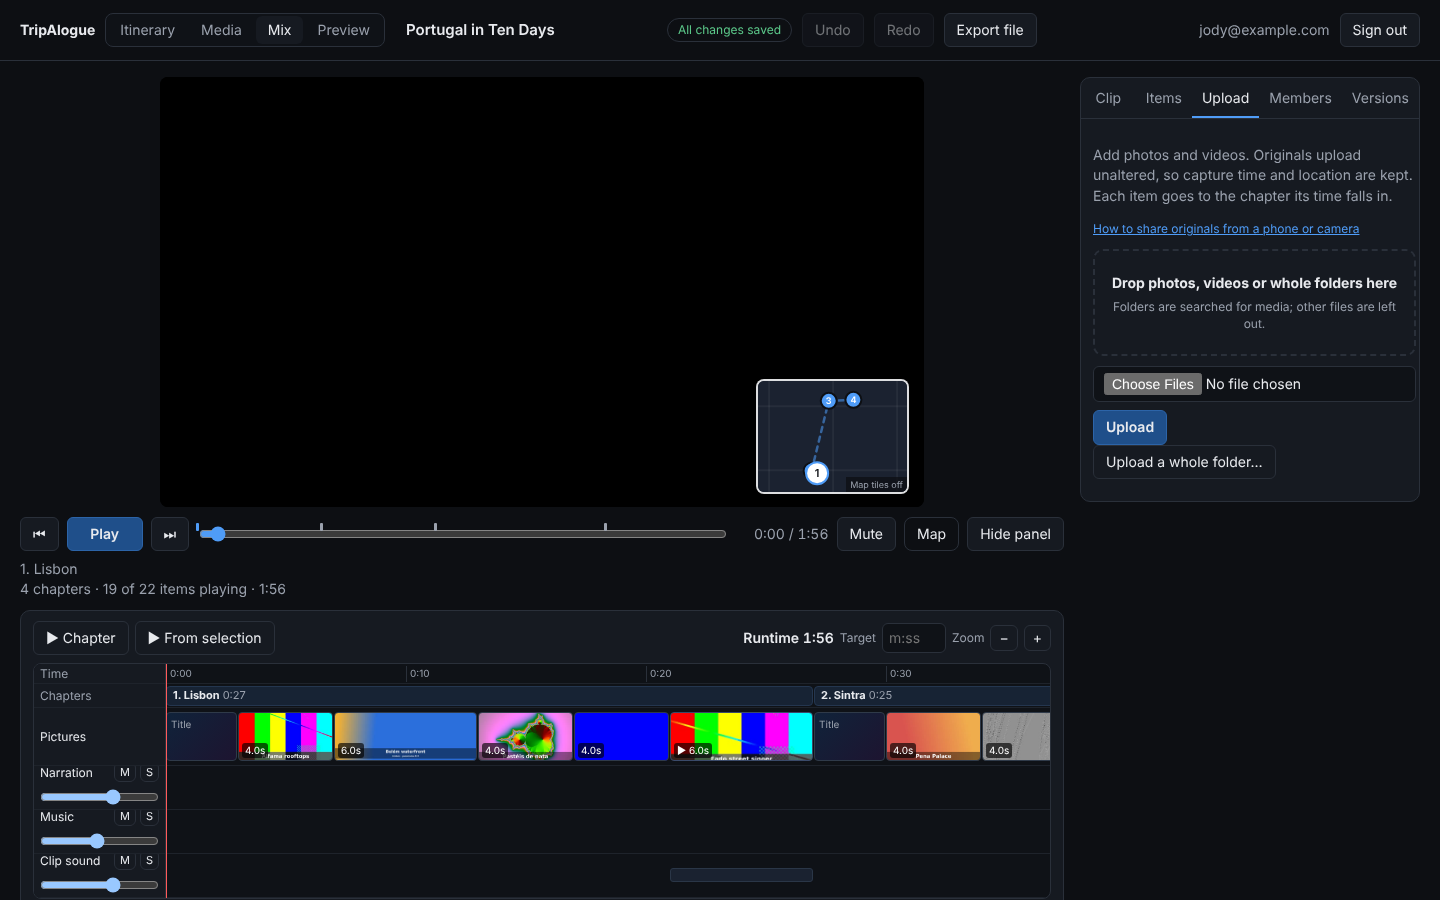
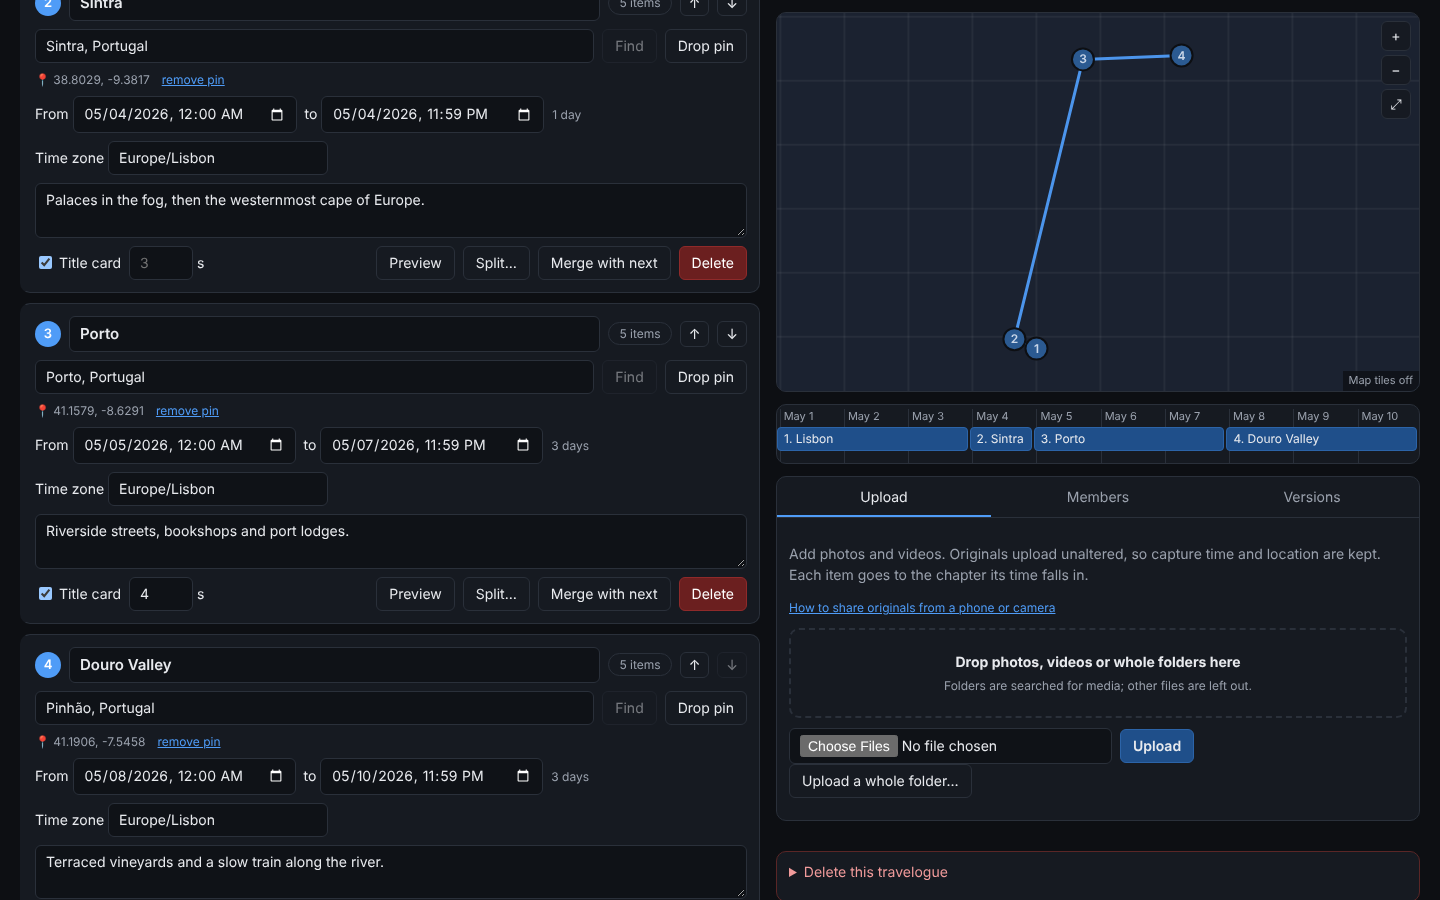
Move Upload, Members and Versions to a panel in the Itinerary view
The travelogue panel sits in the Itinerary view's lower right, under the map
and chapter timeline (Delete this travelogue below it). Mix keeps Clip and
Items. The timeline drops focus from inspector fields on click, so Delete
works after typing a duration. The itinerary's play button reads Preview.
Two test races fixed (phase 1 date fix, phase 3 move dialog).

Claude-Session: https://claude.ai/code/session_01AduyArpdAmAEsk6yH1Lq9i

diff --git a/src/web/main.ts b/src/web/main.ts
@@ -231,9 +231,16 @@ async function renderProject(id: string, initialView?: View) {
   const redoBtn = h('button', { id: 'redo', onclick: () => s.redo() }, 'Redo');
   const meta = h('div', { id: 'meta', class: 'muted' });
   const side = h('div', { class: 'side-body' });
-  const tabs = ['Clip', 'Items', 'Upload', 'Members', 'Versions'] as const;
-  let tab: (typeof tabs)[number] = 'Items';
+  // Mix's side panel: the selected clip and the item list.
+  const tabs = ['Clip', 'Items'] as const;
+  let tab: (typeof tabs)[number] = 'Clip';
   const tabBar = h('div', { class: 'tabs', role: 'tablist' }, ...tabs.map((t) => h('button', { role: 'tab', 'data-tab': t, onclick: () => { tab = t; renderSide(); } }, t)));
+  // The travelogue panel, in the Itinerary view's lower right: uploads, who is on the trip, saved versions.
+  const ptabs = ['Upload', 'Members', 'Versions'] as const;
+  let ptab: (typeof ptabs)[number] = 'Upload';
+  const projBody = h('div', { class: 'side-body project-panel-body' });
+  const ptabBar = h('div', { class: 'tabs', role: 'tablist' }, ...ptabs.map((t) => h('button', { role: 'tab', 'data-tab': t, onclick: () => { ptab = t; renderProjectPanel(); } }, t)));
+  const projectPanel = h('section', { class: 'project-panel card', id: 'project-panel', 'aria-label': 'Uploads, members and versions' }, ptabBar, projBody);
 
   titleInput.addEventListener('input', () => s.edit('Rename travelogue', (p) => setTitle(p, titleInput.value), { coalesceKey: 'title' }));
   const exportLink = h('a', { class: 'button', href: `/api/projects/${encodeURIComponent(id)}/export`, download: '' }, 'Export file');
@@ -258,6 +265,7 @@ async function renderProject(id: string, initialView?: View) {
       alert((e as ApiError).message);
     }
     renderSide();
+    renderProjectPanel();
   };
   const itinerary = mountItinerary(s, {
     map: cfg.map,
@@ -268,6 +276,7 @@ async function renderProject(id: string, initialView?: View) {
       player.play();
     },
   });
+  itinerary.el.querySelector('.itinerary-side')?.append(projectPanel);
   if (s.role === 'owner') itinerary.el.querySelector('.itinerary-side')?.append(deleteProjectBox());
   const inset = mountInset(s, stageWrap, cfg.map);
   const media = mountMedia(s, {
@@ -294,7 +303,7 @@ async function renderProject(id: string, initialView?: View) {
         chapterLabel, meta, editorHost),
       h('aside', { class: 'side card', id: 'side-panel' }, tabBar, side));
 
-  // The side panel (Items, Upload, Members, Versions) folds away so playback can use the whole width.
+  // Mix's side panel (Clip, Items) folds away so the player and timeline can use the whole width.
   // Remembered per browser; storage can be unavailable, so it is best effort.
   const PANEL_KEY = 'tripalogue.panelCollapsed';
   const panelBtn = h('button', { id: 'toggle-panel', 'aria-controls': 'side-panel', title: 'Show or hide the side panel (P)' });
@@ -324,9 +333,7 @@ async function renderProject(id: string, initialView?: View) {
     playMain.classList.toggle('editing', editing);
     playMain.classList.toggle('previewing', v === 'preview');
     editor.el.hidden = !editing;
-    tabBar.querySelector<HTMLElement>('[data-tab="Clip"]')!.hidden = !editing;
     if (editing && was !== 'mix') tab = 'Clip';
-    else if (!editing && tab === 'Clip') tab = 'Items';
     stageWrap.style.maxWidth = `calc((100vh - ${editing ? 470 : 190}px) * ${s.state.output.width / s.state.output.height})`;
     editor.setActive(editing);
     stage.setActive(editing);
@@ -458,7 +465,8 @@ async function renderProject(id: string, initialView?: View) {
     meta.dataset.ready = String(ready);
     meta.dataset.total = String(p.media.length);
     renderMarks();
-    if (tab === 'Items' || tab === 'Upload') renderSide();
+    if (tab === 'Items') renderSide();
+    if (ptab === 'Upload') renderProjectPanel();
     itinerary.update();
     if (view === 'media') media.update();
     if (view === 'mix') editor.update();
@@ -494,9 +502,13 @@ async function renderProject(id: string, initialView?: View) {
   function renderSide() {
     tabBar.querySelectorAll<HTMLElement>('[role=tab]').forEach((b) => b.setAttribute('aria-selected', String(b.dataset.tab === tab)));
     if (tab === 'Clip') return void side.replaceChildren(editor.inspector);
-    if (tab === 'Items') return renderItems();
-    if (tab === 'Upload') return renderUpload();
-    if (tab === 'Members') return void renderMembers();
+    return renderItems();
+  }
+
+  function renderProjectPanel() {
+    ptabBar.querySelectorAll<HTMLElement>('[role=tab]').forEach((b) => b.setAttribute('aria-selected', String(b.dataset.tab === ptab)));
+    if (ptab === 'Upload') return renderUpload();
+    if (ptab === 'Members') return void renderMembers();
     return void renderVersions();
   }
 
@@ -562,7 +574,7 @@ async function renderProject(id: string, initialView?: View) {
       ? h('div', { class: 'banner error', id: 'media-problems', role: 'alert' },
         h('strong', {}, 'Media processing is not working on this server.'),
         h('ul', {}, ...mediaTools.problems.map((t) => h('li', {}, t))),
-        h('button', { id: 'media-recheck', onclick: async () => { mediaTools = await Api.mediaTools(true).catch(() => mediaTools); renderSide(); } }, 'Check again'))
+        h('button', { id: 'media-recheck', onclick: async () => { mediaTools = await Api.mediaTools(true).catch(() => mediaTools); renderProjectPanel(); } }, 'Check again'))
       : null;
     const failedBlock = failedProcessing.length
       ? h('div', { class: 'failed-processing' },
@@ -573,7 +585,7 @@ async function renderProject(id: string, initialView?: View) {
     const input = uploadInput;
     const folder = uploadFolder;
     const start = startUpload;
-    side.replaceChildren(
+    projBody.replaceChildren(
       mayUpload
         ? h('div', {},
           h('p', { class: 'muted' }, pending.length
@@ -586,18 +598,18 @@ async function renderProject(id: string, initialView?: View) {
           uploadProgress,
           pending.length ? h('ul', { class: 'pending' }, ...pending.slice(0, 50).map((m) => h('li', { class: 'muted' }, `${m.uri.split('/').pop()} · ${m.status}${m.error ? ` · ${m.error}` : ''}`))) : null)
         : h('p', { class: 'muted' }, 'Viewers cannot upload media.'));
-    if (failedBlock) side.append(failedBlock);
-    if (toolsBanner) side.prepend(toolsBanner);
+    if (failedBlock) projBody.append(failedBlock);
+    if (toolsBanner) projBody.prepend(toolsBanner);
   }
 
   async function renderMembers() {
     const { members } = await Api.members(id).catch(() => ({ members: [] as { userId: string; name: string; email: string; role: Role; joinedAt: number }[] }));
-    if (tab !== 'Members') return;
+    if (ptab !== 'Members') return;
     const owner = s.role === 'owner';
     const email = h('input', { type: 'email', placeholder: 'friend@example.com', 'aria-label': 'Email to invite', required: true });
     const role = h('select', { 'aria-label': 'Role' }, ...(['editor', 'contributor', 'viewer'] as const).map((r) => h('option', { value: r }, r)));
     const msg = h('div', { class: 'form-msg', role: 'status' });
-    side.replaceChildren(
+    projBody.replaceChildren(
       h('ul', { class: 'members' }, ...members.map((m) => h('li', {},
         h('span', {}, `${m.name} `, h('span', { class: 'muted' }, m.email)),
         owner && m.role !== 'owner'
@@ -655,10 +667,10 @@ async function renderProject(id: string, initialView?: View) {
 
   async function renderVersions() {
     const { versions } = await Api.versions(id).catch(() => ({ versions: [] as { id: string; rev: number; author: string; at: number; label: string; auto: boolean }[] }));
-    if (tab !== 'Versions') return;
+    if (ptab !== 'Versions') return;
     const label = h('input', { placeholder: 'e.g. Before trimming Porto', 'aria-label': 'Version name', required: true });
     const msg = h('div', { class: 'form-msg', role: 'status' });
-    side.replaceChildren(
+    projBody.replaceChildren(
       s.mayEdit ? h('form', { class: 'row', onsubmit: async (e: Event) => { e.preventDefault(); await s.flush().catch(() => {}); await Api.saveVersion(id, label.value); void renderVersions(); } },
         label, h('button', { type: 'submit' }, 'Save version')) : '',
       h('ul', { class: 'versions' }, ...versions.map((v) => h('li', {},
@@ -678,6 +690,7 @@ async function renderProject(id: string, initialView?: View) {
   }
 
   renderSide();
+  renderProjectPanel();
   update();
   setView(view);
   window.tripalogue = { telemetry, player, session: s, itinerary, media, editor, inset, state: () => player.state };

diff --git a/scripts/exit-test.ts b/scripts/exit-test.ts
@@ -48,6 +48,16 @@ const dataDir = mkdtempSync(path.join(os.tmpdir(), 'tripalogue-exit-'));
 const app = await startApp({ dataDir, port: 0, log: () => {}, geo: geoConfigFromEnv(dataDir, { tileUrl: '', geocoderUrl: '' }) });
 const browser = await chromium.launch({ args: ['--autoplay-policy=no-user-gesture-required'] });
 const page = await browser.newPage({ viewport: { width: 1440, height: 900 } });
+/** Upload, Members and Versions live in the Itinerary view's travelogue panel (lower right). */
+const panelTab = async (t: 'Upload' | 'Members' | 'Versions') => {
+  await page.click('#view-itinerary');
+  await page.click(`#project-panel button[data-tab="${t}"]`);
+};
+/** The item list is a tab of the Mix view's side panel. */
+const itemsTab = async () => {
+  await page.click('#view-mix');
+  await page.click('#side-panel button[data-tab="Items"]');
+};
 const consoleErrors: string[] = [];
 page.on('console', (m) => { if (m.type() === 'error') consoleErrors.push(m.text()); });
 page.on('pageerror', (e) => consoleErrors.push(e.message));
@@ -170,12 +180,12 @@ try {
   const previewWidth = await page.evaluate(() => document.getElementById('stage-wrap')!.getBoundingClientRect().width);
   const previewSide = await page.evaluate(() => !!document.getElementById('side-panel')!.getClientRects().length);
   await page.click('#view-mix');
-  await page.click('.tabs button[data-tab="Items"]');
+  await itemsTab();
   await page.uncheck('li[data-item="m02"] input[type=checkbox]');
   await page.waitForFunction(() => window.tripalogue!.session!.unsaved === 0 && window.tripalogue!.session!.status === 'saved', null, { timeout: 10_000 });
   const savedOnServer = app.projects.load(pid).doc.cues.find((c) => c.itemId === 'm02')!.included === false;
   await page.reload();
-  await page.click('.tabs button[data-tab="Items"]');
+  await itemsTab();
   await page.waitForSelector('li[data-item="m02"]');
   const afterReload = await page.isChecked('li[data-item="m02"] input[type=checkbox]');
   check('an edit autosaves and survives a reload', savedOnServer && !afterReload);
@@ -225,11 +235,11 @@ try {
   // 7. A phone's HEIC photo uploads, gets a full-size JPG, and shows upright.
   const heic = path.join(dataDir, 'IMG_0420.HEIC');
   await writeHeic(heic, { width: 320, height: 240, tile: 128, rotateCcw: 90, capturedAt: '2026:05:03 14:22:10', exifOrientation: 6 });
-  await page.click('.tabs button[data-tab="Upload"]');
+  await panelTab('Upload');
   await page.setInputFiles('#upload-input', heic);
   await page.click('#upload-start');
   await page.waitForFunction(() => window.tripalogue!.session!.state.media.some((m) => m.uri.endsWith('IMG_0420.HEIC') && m.status === 'ready'), null, { timeout: 60_000 });
-  await page.click('.tabs button[data-tab="Items"]');
+  await itemsTab();
   const row = page.locator('li[data-item]', { hasText: 'IMG_0420.HEIC' });
   await row.locator('img').waitFor();
   await page.waitForFunction(() => [...document.querySelectorAll<HTMLImageElement>('li[data-item] img')].some((i) => i.closest('li')!.textContent!.includes('IMG_0420') && i.naturalWidth > 0));
@@ -249,20 +259,20 @@ try {
   // A new photo (a copy of a sample photo would now be recognised as already uploaded and skipped).
   await new Promise<void>((resolve, reject) => import('node:child_process').then(({ execFile }) =>
     execFile('ffmpeg', ['-v', 'error', '-y', '-f', 'lavfi', '-i', 'color=c=olive:s=640x480', '-frames:v', '1', broken], (e) => (e ? reject(e) : resolve()))));
-  await page.click('.tabs button[data-tab="Upload"]');
+  await panelTab('Upload');
   await page.setInputFiles('#upload-input', broken);
   await page.click('#upload-start');
   await page.waitForFunction(() => window.tripalogue!.session!.state.media.some((m) => m.uri.endsWith('IMG_0500.jpg') && m.status === 'failed'), null, { timeout: 60_000 });
-  await page.click('.tabs button[data-tab="Items"]');
+  await itemsTab();
   const retryBtn = page.locator('button.retry[aria-label="Retry processing IMG_0500.jpg"]');
   await retryBtn.waitFor();
-  await page.click('.tabs button[data-tab="Upload"]');
+  await panelTab('Upload');
   await page.waitForSelector('#retry-failed');
   // The banner shows once the page knows about the problem (the page loaded before ffprobe broke): ask again.
   const recheck = await page.evaluate(async () => (await fetch('/api/media-tools?recheck=1')).json());
   await page.reload();
   await page.waitForFunction(() => !!window.tripalogue?.session);
-  await page.click('.tabs button[data-tab="Upload"]');
+  await panelTab('Upload');
   const banner = await page.locator('#media-problems').textContent({ timeout: 10_000 }).catch(() => '');
   await page.screenshot({ path: path.join(outDir, '12-media-problems.png') });
   app.cfg.ffprobe = goodProbe; // "install" ffprobe

diff --git a/scripts/phase2-test.ts b/scripts/phase2-test.ts
@@ -114,6 +114,11 @@ class Traveler {
 const app = await startApp({ dataDir, port: 0, log: () => {}, geo: geoConfigFromEnv(dataDir, { tileUrl: '', geocoderUrl: '' }) });
 const browser = await chromium.launch();
 const page = await browser.newPage({ viewport: { width: 1440, height: 1000 } });
+/** Upload, Members and Versions live in the Itinerary view's travelogue panel (lower right). */
+const panelTab = async (t: 'Upload' | 'Members' | 'Versions') => {
+  await page.click('#view-itinerary');
+  await page.click(`#project-panel button[data-tab="${t}"]`);
+};
 const consoleErrors: string[] = [];
 page.on('console', (m) => { if (m.type() === 'error') consoleErrors.push(m.text()); });
 page.on('pageerror', (e) => consoleErrors.push(e.stack ?? e.message));
@@ -142,7 +147,7 @@ try {
 
   // The traveler's phone: upload the extra files from the Upload tab (in the Mix view's side panel).
   await page.click('#view-mix');
-  await page.click('.tabs button[data-tab="Upload"]');
+  await panelTab('Upload');
   await page.setInputFiles('#upload-input', [afterTrip, screenshot, dupe, ...slow, phone]);
   await page.click('#upload-start');
   await page.waitForFunction(() => /1 already uploaded, skipped/.test(document.getElementById('upload-summary')?.textContent ?? '') && window.tripalogue!.session!.state.media.length === 26
@@ -165,7 +170,7 @@ try {
     await t.signInFromLink(invite);
     for (const f of list) await t.upload(pid, f);
   }
-  await page.click('.tabs button[data-tab="Upload"]');
+  await panelTab('Upload');
   await page.setInputFiles('#upload-input', [memo]);
   await page.click('#upload-start');
   await app.jobs.idle();
@@ -319,11 +324,12 @@ try {
   await fs.writeFile(path.join(folder, 'notes.txt'), 'packing list');
   const before = await page.evaluate(() => window.tripalogue!.session!.state.media.length);
   await page.click('#view-mix');
-  await page.click('.tabs button[data-tab="Upload"]');
+  await panelTab('Upload');
   await page.locator('#drop-zone').screenshot({ path: path.join(outDir, '05-drop-zone.png') });
+  await page.screenshot({ path: path.join(outDir, '09-itinerary-travelogue-panel.png') });
   // The file picker keeps its selection when the panel redraws (it used to take two tries on first use).
   await page.setInputFiles('#upload-input', [path.join(folder, 'IMG_9001.jpg')]);
-  await page.click('.tabs button[data-tab="Upload"]');
+  await panelTab('Upload');
   await page.evaluate(() => window.tripalogue!.session!.poll());
   await settle();
   const stillChosen = await page.evaluate(() => (document.getElementById('upload-input') as HTMLInputElement).files?.length ?? 0);
@@ -432,7 +438,7 @@ try {
   check('Delete for good erases the original once nothing refers to it', !blobLeft && !binLeft, `${shotKey}: file ${blobLeft ? 'still there' : 'erased'}, bin ${binLeft ? 'still shown' : 'gone'}`);
 
   await page.click('#view-mix');
-  await page.click('.tabs button[data-tab="Members"]');
+  await panelTab('Members');
   await page.waitForSelector('.members li');
   const inMembers = await page.locator('.side-body #danger-zone').count();
   await page.click('#view-itinerary');

diff --git a/scripts/phase3-test.ts b/scripts/phase3-test.ts
@@ -116,6 +116,11 @@ writeFileSync(bigFile, serializeProject(bigProject));
 const app = await startApp({ dataDir, port: 0, log: () => {}, geo: geoConfigFromEnv(dataDir, { tileUrl: '', geocoderUrl: '' }) });
 const browser = await chromium.launch();
 const page = await browser.newPage({ viewport: { width: 1440, height: 1000 } });
+/** Upload, Members and Versions live in the Itinerary view's travelogue panel (lower right). */
+const panelTab = async (t: 'Upload' | 'Members' | 'Versions') => {
+  await page.click('#view-itinerary');
+  await page.click(`#project-panel button[data-tab="${t}"]`);
+};
 const consoleErrors: string[] = [];
 page.on('console', (m) => { if (m.type() === 'error') consoleErrors.push(m.text()); });
 page.on('pageerror', (e) => consoleErrors.push(e.stack ?? e.message));
@@ -160,7 +165,7 @@ try {
 
   // The song and the memo, from the Upload tab.
   await page.click('#view-mix');
-  await page.click('.tabs button[data-tab="Upload"]');
+  await panelTab('Upload');
   await page.setInputFiles('#upload-input', [song, memo]);
   await page.click('#upload-start');
   await page.waitForFunction(() => { const m = window.tripalogue!.session!.state.media.filter((x) => x.kind === 'audio'); return m.length === 2 && m.every((x) => x.status === 'ready'); }, null, { timeout: 60_000 });
@@ -256,12 +261,13 @@ try {
   await page.locator('#pe-move-dialog').screenshot({ path: path.join(outDir, '03-move-across-chapters.png') });
   const question = await page.textContent('#pe-move-dialog h3');
   await page.click('#pe-move-dialog [data-answer="keep"]');
+  await page.waitForFunction((id) => window.tripalogue!.session!.state.media.find((m) => m.id === id)!.chapterId === 'ch-sintra', mover, { timeout: 5000 }).catch(() => {});
   await saved(page);
   const moved = (await state()).media.find((m) => m.id === mover)!;
   const sin = (await tl()).segs.filter((s) => s.chapterId === 'ch-sintra');
   check('moving a clip into another chapter asks whether to change its time; "Keep the time" holds it there (PE-3)',
     /Move .* to Sintra/.test(question ?? '') && moved.chapterId === 'ch-sintra' && moved.chapterLocked === true && !moved.userTimestamp && sin[1].id === mover,
-    `${question}; now 2nd in Sintra, held by hand`);
+    `${question}; chapter ${moved.chapterId}, held ${moved.chapterLocked}, time ${moved.userTimestamp ?? 'unchanged'}, Sintra starts ${sin.slice(0, 3).map((x) => x.id).join(' ')}`);
 
   // Restore one excluded clip from the tray.
   await page.click('#pe-excluded summary');

diff --git a/src/web/itinerary.ts b/src/web/itinerary.ts
@@ -51,7 +51,7 @@ export function mountItinerary(s: ProjectSession, ctx: ItineraryContext): Itiner
   const addBtn = h('button', { class: 'primary', id: 'add-chapter', onclick: () => addChapter() }, '+ Add chapter');
   const importBtn = h('button', { id: 'open-import', onclick: () => toggleImport() }, 'Paste or import itinerary');
   const sortBtn = h('button', { id: 'sort-chapters', onclick: () => s.edit('Sort chapters by date', sortChapters, { structural: true }) }, 'Sort by date');
-  const playBtn = h('button', { id: 'play-title-cards', onclick: () => s.state.chapters[0] && ctx.preview(s.state.chapters[0].id) }, '▶ Play');
+  const playBtn = h('button', { id: 'play-title-cards', onclick: () => s.state.chapters[0] && ctx.preview(s.state.chapters[0].id) }, '▶ Preview');
   const timeline = h('div', { class: 'itinerary-timeline', id: 'itinerary-timeline', 'aria-label': 'Chapter timeline' });
 
   const map = new RouteMap({

diff --git a/src/web/editor.ts b/src/web/editor.ts
@@ -400,6 +400,9 @@ export function mountEditor(s: ProjectSession, ctx: EditorContext): EditorView {
 
   content.addEventListener('pointerdown', (e) => {
     if (e.button !== 0) return;
+    // Leave any field in the inspector, so keys (Delete, Escape) go to the timeline from here on.
+    const focused = document.activeElement as HTMLElement | null;
+    if (focused?.matches('input, textarea, select')) focused.blur();
     const target = e.target as HTMLElement;
     const clip = target.closest<HTMLElement>('.pe-clip[data-item]');
     if (target.closest('.pe-ruler') || (!clip && !target.closest('.pe-chapter'))) {

diff --git a/scripts/phase1-test.ts b/scripts/phase1-test.ts
@@ -218,6 +218,8 @@ try {
   await shot('03-overlap-flagged');
   await card(3).locator('input[aria-label="Start"]').fill('2026-05-04T00:00');
   await card(3).locator('input[aria-label="Start"]').press('Tab');
+  // The edit lands on the change event; wait for it before waiting for the save.
+  await page.waitForFunction(() => !document.querySelector('#itinerary-issues .issue'), null, { timeout: 5000 }).catch(() => {});
   await saved(page);
   check('fixing the date clears the warning', analyzeItinerary(serverDoc(pid)).length === 0 && (await page.locator('#itinerary-issues .issue').count()) === 0);
 

diff --git a/src/web/app.css b/src/web/app.css
@@ -338,3 +338,7 @@ button.danger-outline { background: none; border-color: #8f2a2a; color: #f19b9b;
 /* Preview: just the player, using the whole width (the side panel belongs to Mix). */
 .project.previewing { grid-template-columns: minmax(0, 1fr); }
 .project.previewing > .side, .project.previewing #toggle-panel { display: none; }
+
+/* Itinerary: the travelogue panel (Upload, Members, Versions) under the map and timeline */
+.project-panel { padding: 0; display: flex; flex-direction: column; }
+.project-panel .project-panel-body { max-height: 42vh; overflow: auto; }

diff --git a/src/web/guide-contributors.html b/src/web/guide-contributors.html
@@ -46,7 +46,7 @@
   <h2>1. Open your invitation</h2>
   <ol>
     <li>Open the invitation link from your email and sign in with that email address. The sign-in link arrives by email; there is no password.</li>
-    <li>You'll land in the travelogue. Open the <strong>Upload</strong> tab (in the Mix view's side panel).</li>
+    <li>You'll land in the travelogue. Open the <strong>Upload</strong> tab (in the Itinerary view, lower right).</li>
   </ol>
 
   <h2>2. Choose your originals</h2>

diff --git a/README.md b/README.md
@@ -70,7 +70,7 @@ The server checks ffmpeg and ffprobe at startup, including the codecs processing
 plain words. The project's **Upload** tab shows the same warning. After installing or fixing ffmpeg, press
 **Check again** in that warning (restart the server if ffmpeg still isn't found, so it picks up the new PATH).
 Items that failed while ffmpeg was missing keep their uploaded originals: press **Retry processing** in the
-Upload tab, or **Retry** next to an item in the Items list, to process them again without re-uploading.
+Upload tab (Itinerary view, lower right), or **Retry** next to an item in the Items list, to process them again without re-uploading.
 
 ### Configuration
 
@@ -193,7 +193,7 @@ survives a reload and can be undone. Report and screenshots: `docs/exit-test/`.
 | Edit → autosave → reload → undo, every change in the operation log | pass |
 | Map inset: whole trip on a title card, then the chapter being played | pass |
 | Map inset: photo locations as dots, a trail through the chapter so far, the marker hopping to each new item | pass |
-| Hide the side panel: the player fills the width, the choice is remembered, P toggles it | pass |
+| Preview has no side panel and is wider than Mix; Mix's panel hides, is remembered, P toggles it | pass |
 | A HEIC photo uploads through the browser, gets a full-size JPG, and shows upright | pass |
 | A broken ffmpeg is reported in the Upload tab, and Retry processes failed uploads once fixed | pass |
 | Total | 24 of 24 checks |
@@ -221,8 +221,10 @@ the old `/edit` and `/play` views still open Mix and Preview.
 Moving a start past its end (or an end before its start) keeps the chapter's length, so an edit never leaves an
 invalid chapter. Numeric dates in pasted text are read month/day/year.
 
-**Preview** is just the player at full width. The side panel (Clip, Items, Upload, Members, Versions) is in **Mix**,
-where **Hide panel** (or the P key) folds it away; the browser remembers the choice.
+**Preview** is just the player at full width. **Mix** has a side panel with the selected **Clip** and the **Items**
+list; **Hide panel** (or the P key) folds it away, and the browser remembers the choice. The travelogue panel —
+**Upload**, **Members** and **Versions** — sits in the **Itinerary** view's lower right, under the map and the chapter
+timeline, with **Delete this travelogue** (owner only) below it.
 
 The inset is on for new travelogues. For a travelogue made before it existed, open **Map** next to Mute in
 Preview and tick **Show map inset**. While a chapter plays, the inset frames that chapter's located photos and
